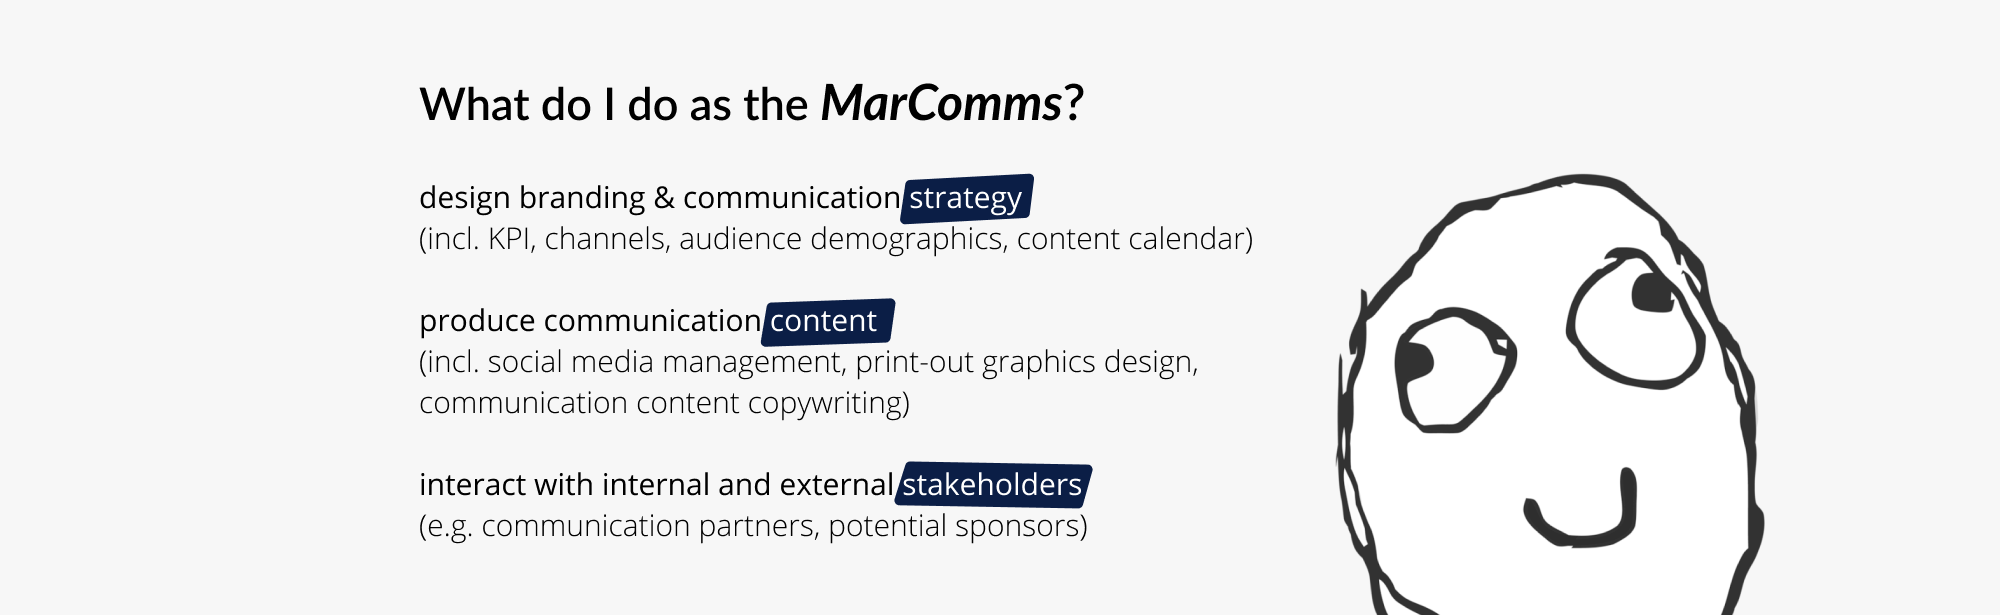
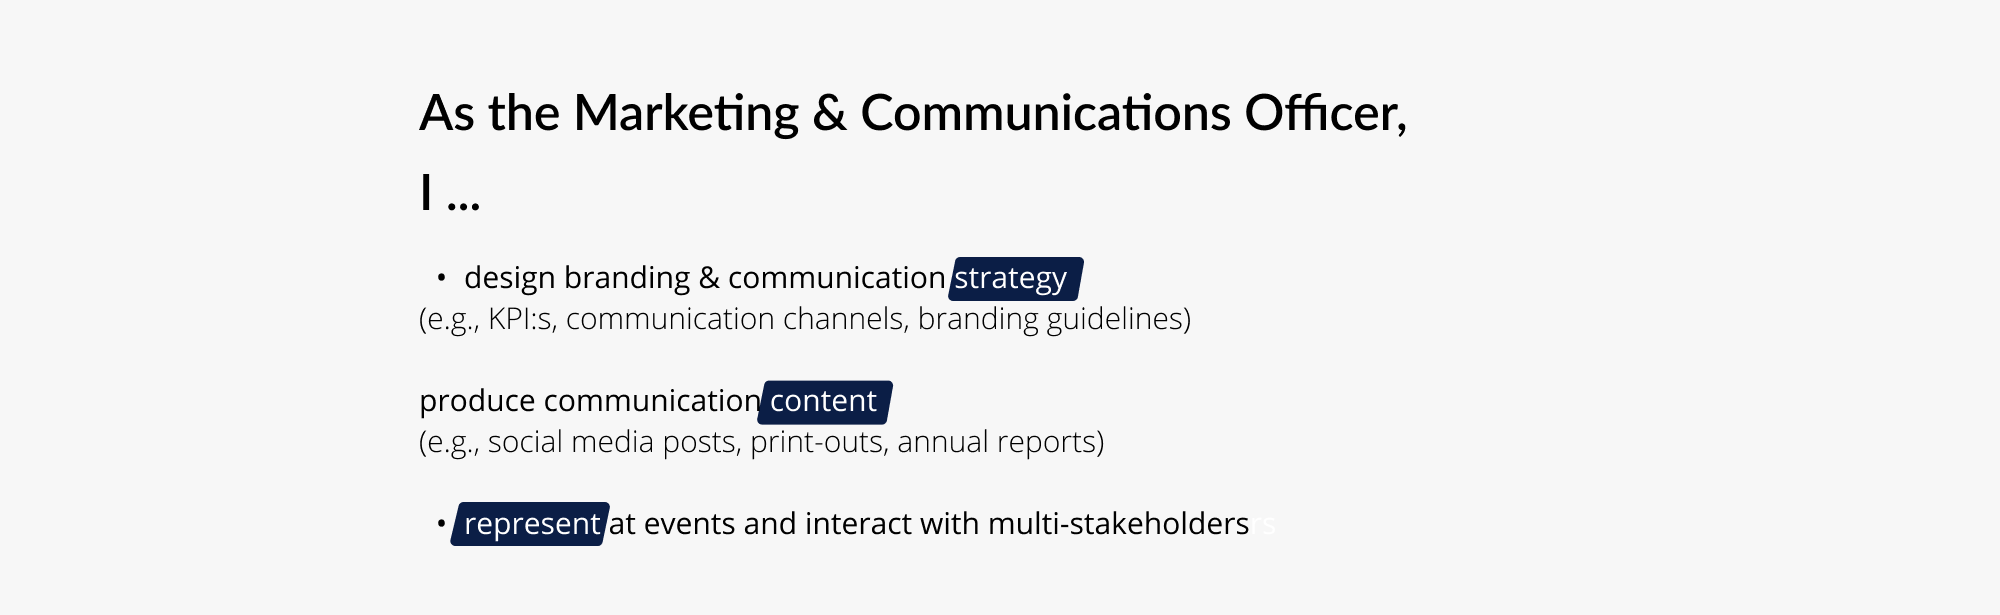
Updating EITDAB project.

diff --git a/project/AlumniMarComms/AlumniMarComms.html b/project/AlumniMarComms/AlumniMarComms.html
@@ -3,7 +3,7 @@
 
 <head>
     <meta charset="utf-8">
-    <title>Alumni Community Marketing and Communications</title>
+    <title>Marketing and Communications Services</title>
     <meta name="description" content="Mao Jiayao Yu's portfolio.">
     <link rel="shortcut icon" type="image/png" href="../../img/faviconMao.png" />
     <link rel="apple-touch-icon" type="image/png" href="../../img/faviconMao.png">
@@ -50,33 +50,28 @@
 <body>
     <div class="project-nav w-nav" data-animation="default" data-collapse="none" data-duration="400"><a class="back-arrow w-nav-brand" href="../../index.html"><img height="50" src="../../img/Back_arrow.svg"></a>
         <div class="sm-info">
-            <h1 class="project-name">Alumni Community Marketing & Communications</h1>
-            <h5 class="project-role">Branding, Copywriting</h5>
+            <h1 class="project-name">Marketing and Communications Services</h1>
+            <h5 class="project-role">Branding, Graphic Design</h5>
         </div>
     </div>
     <div class="a-project-hero" data-ix="fade-in-on-scroll">
-        <h1 class="a-project-hero-title">Alumni Community Marketing and Communications</h1>
-        <h2 class="a-project-hero-subtitle">Fostering digital-technology-empowered entrepreneurship with social responsibility in mind.&nbsp;</h2>
-        <img class="a-project-hero-teaser" src="teaser.png" alt=""></div>
+        <h1 class="a-project-hero-title">Marketing and Communications Services</h1>
+        <h2 class="a-project-hero-subtitle">For an international and entrepreneurial alumni community in digital tech industries&nbsp;</h2>
+        <img class="a-project-hero-teaser" src="teaser.png" alt="teaser image of EIT Digital Alumni Foundation marketing and communication services"></div>
     </div>
     <div data-ix="show-project-nav">
+        <div class="w-row add-info w-richtext" style="background-color: #f5f4f3; padding: 5% 10% 5% 10%;" data-ix="fade-in-on-scroll">
+            <p>I graduated from a <a href="https://masterschool.eitdigital.eu/" target="_blank">EIT Digital</a> Master's programme (major in <a href="https://masterschool.eitdigital.eu/human-computer-interaction-and-design" target="_blank">Human-Computer Interaction and Design</a>, minor in <a href="https://masterschool.eitdigital.eu/innovation-entrepreneurship-minor" target="_blank">Innovation and Entrepreneurship</a>). After graduation, I applied and was elected to be the Marketing and Communications Officer (MarComms) of its alumni community - <a href="https://alumni.eitdigital.eu/" target="_blank">EIT Digital Alumni Foundation</a>, joining the collective efforts to build "the global community of Europe's tech innovators", as we aim to be.&nbsp;</p>
+        </div>
         <div class="no-bottom-pad project-container">
-            <div class="w-row add-info w-richtext" data-ix="fade-in-on-scroll" >
-                <h2>It is an alumni community where...</h2>
-                <p>each of us has a major degree in a technical domain and a minor degree in innovation & entrepreneurship from <a href="https://www.eitdigital.eu/eit-digital-academy/" alt="" target="_blank">EIT Digital Academy</a> which connects universities across European countries.
-                    <br><br>We are used to study and team-up with people from different cultural background, 
-                    <br>educated to turn technical creativity into real-life applications and startups,
-                    <br>and connected by the shared mentality of entrepreneurship and internationalism.&nbsp;</p>
-                <img data-ix="fade-in-on-scroll" class ="project-image" src="communityBg.png">
-                <p data-ix="fade-in-on-scroll"><br><br>I ran for its Marketing and Communications Officer (abbr. MarComms) in the Board election and got elected for a two-year mandate starting from July, 2019&nbsp;</p>
-                <img data-ix="fade-in-on-scroll" class="project-image" src="election.png" />
-                <p>The initial idea was giving back to the community, as I have met many lovely people there who changed my view of the world.&nbsp;</p>
+            <div class="w-row">
+                <img data-ix="fade-in-on-scroll" class="project-image" src="communityOverview.png" alt="image of alumni community overview"/>
             </div>
             <div class="w-row">
-                <img data-ix="fade-in-on-scroll" class ="project-image" src="jobOverview.png">
+                <img data-ix="fade-in-on-scroll" class ="project-image" src="jobOverview.png" alt="image of marketing and communication services overview" />
             </div>            
             <div data-ix="fade-in-on-scroll" class="w-row">
-                <img class ="project-image" src="strategy.png">
+                <img class ="project-image" src="strategy.png" alt="image of marketing and communication strategy" />
             </div>
             <div class="w-row">
                 <img data-ix="fade-in-on-scroll" class ="project-image" src="content1.png">

diff --git a/index.html b/index.html
@@ -236,7 +236,7 @@
                             </div>
                         </div>
                         <div class="brands w-col w-col-4">
-                            <h6>Programming</h6>
+                            <h6>Engineering tools</h6>
                             <div class="thin-line"></div>
                             <div class="w-row">
                                 <div class="w-richtext">
